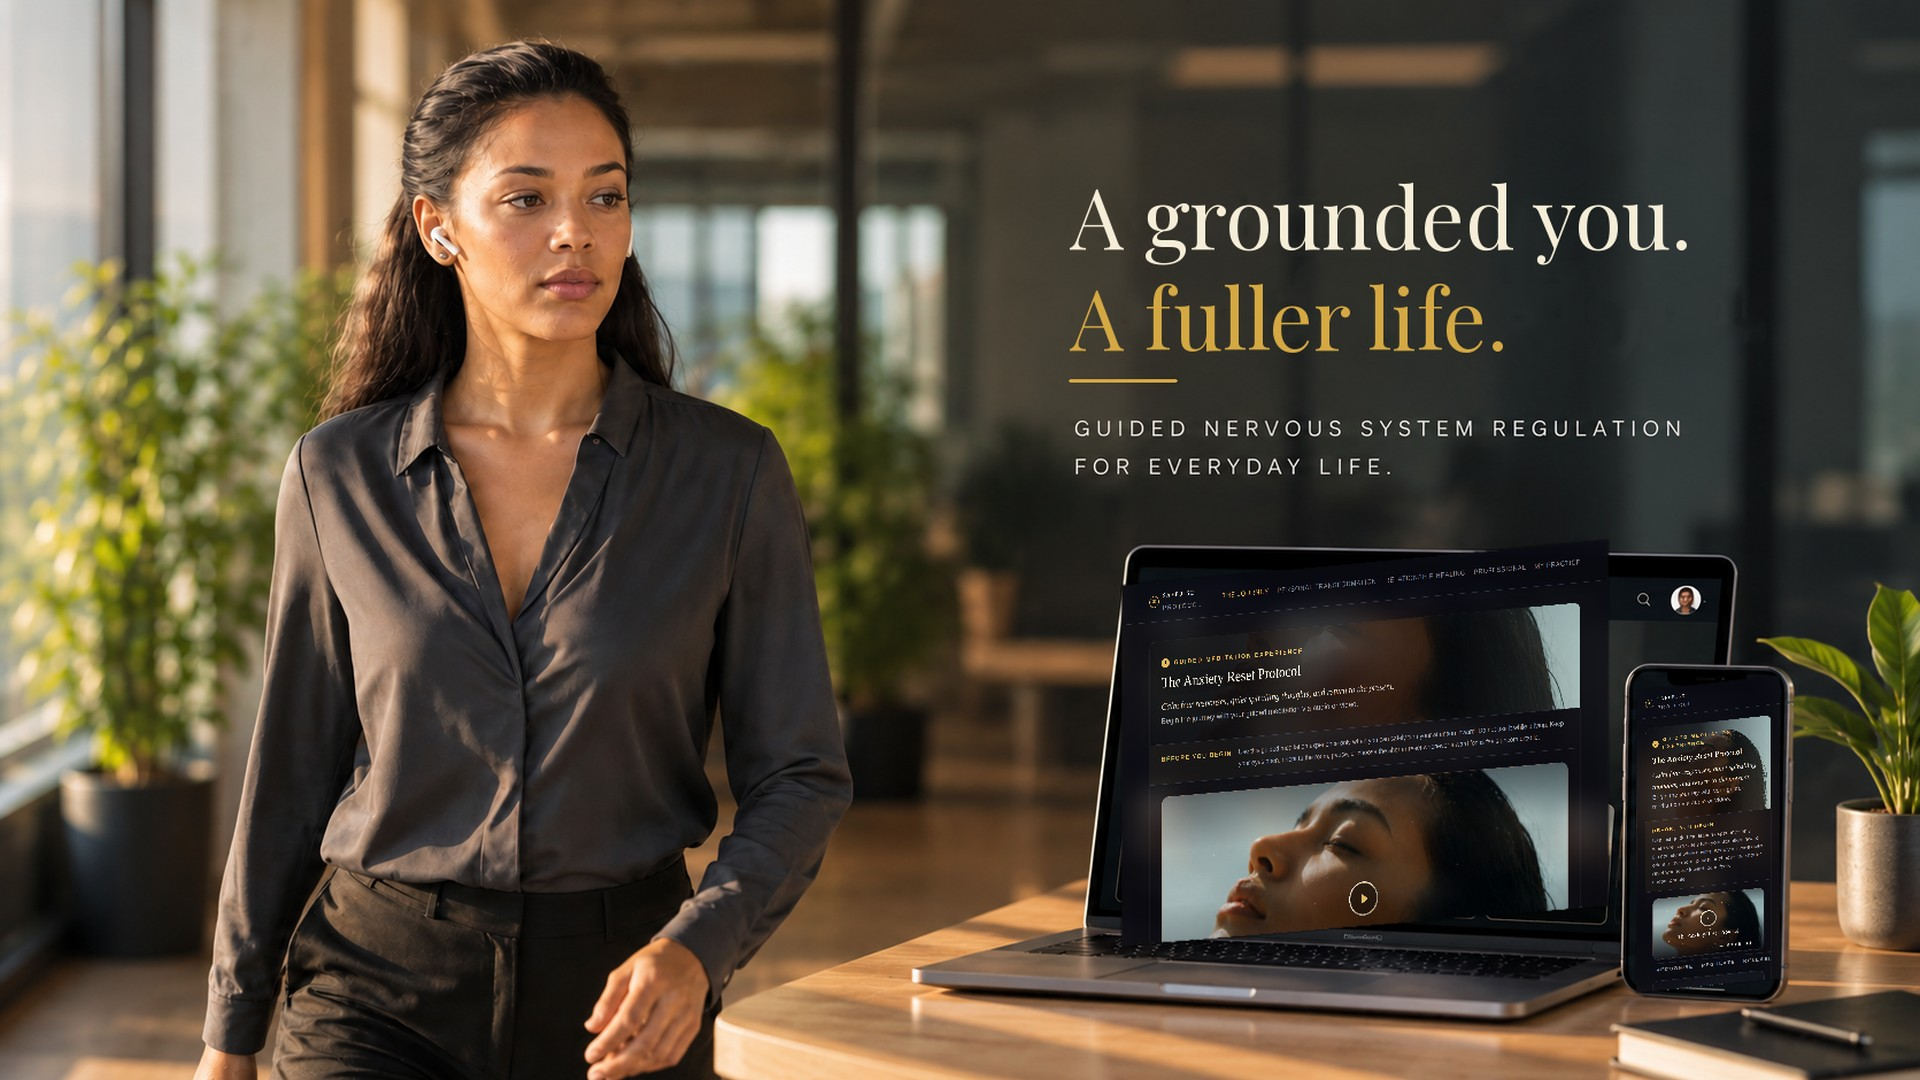
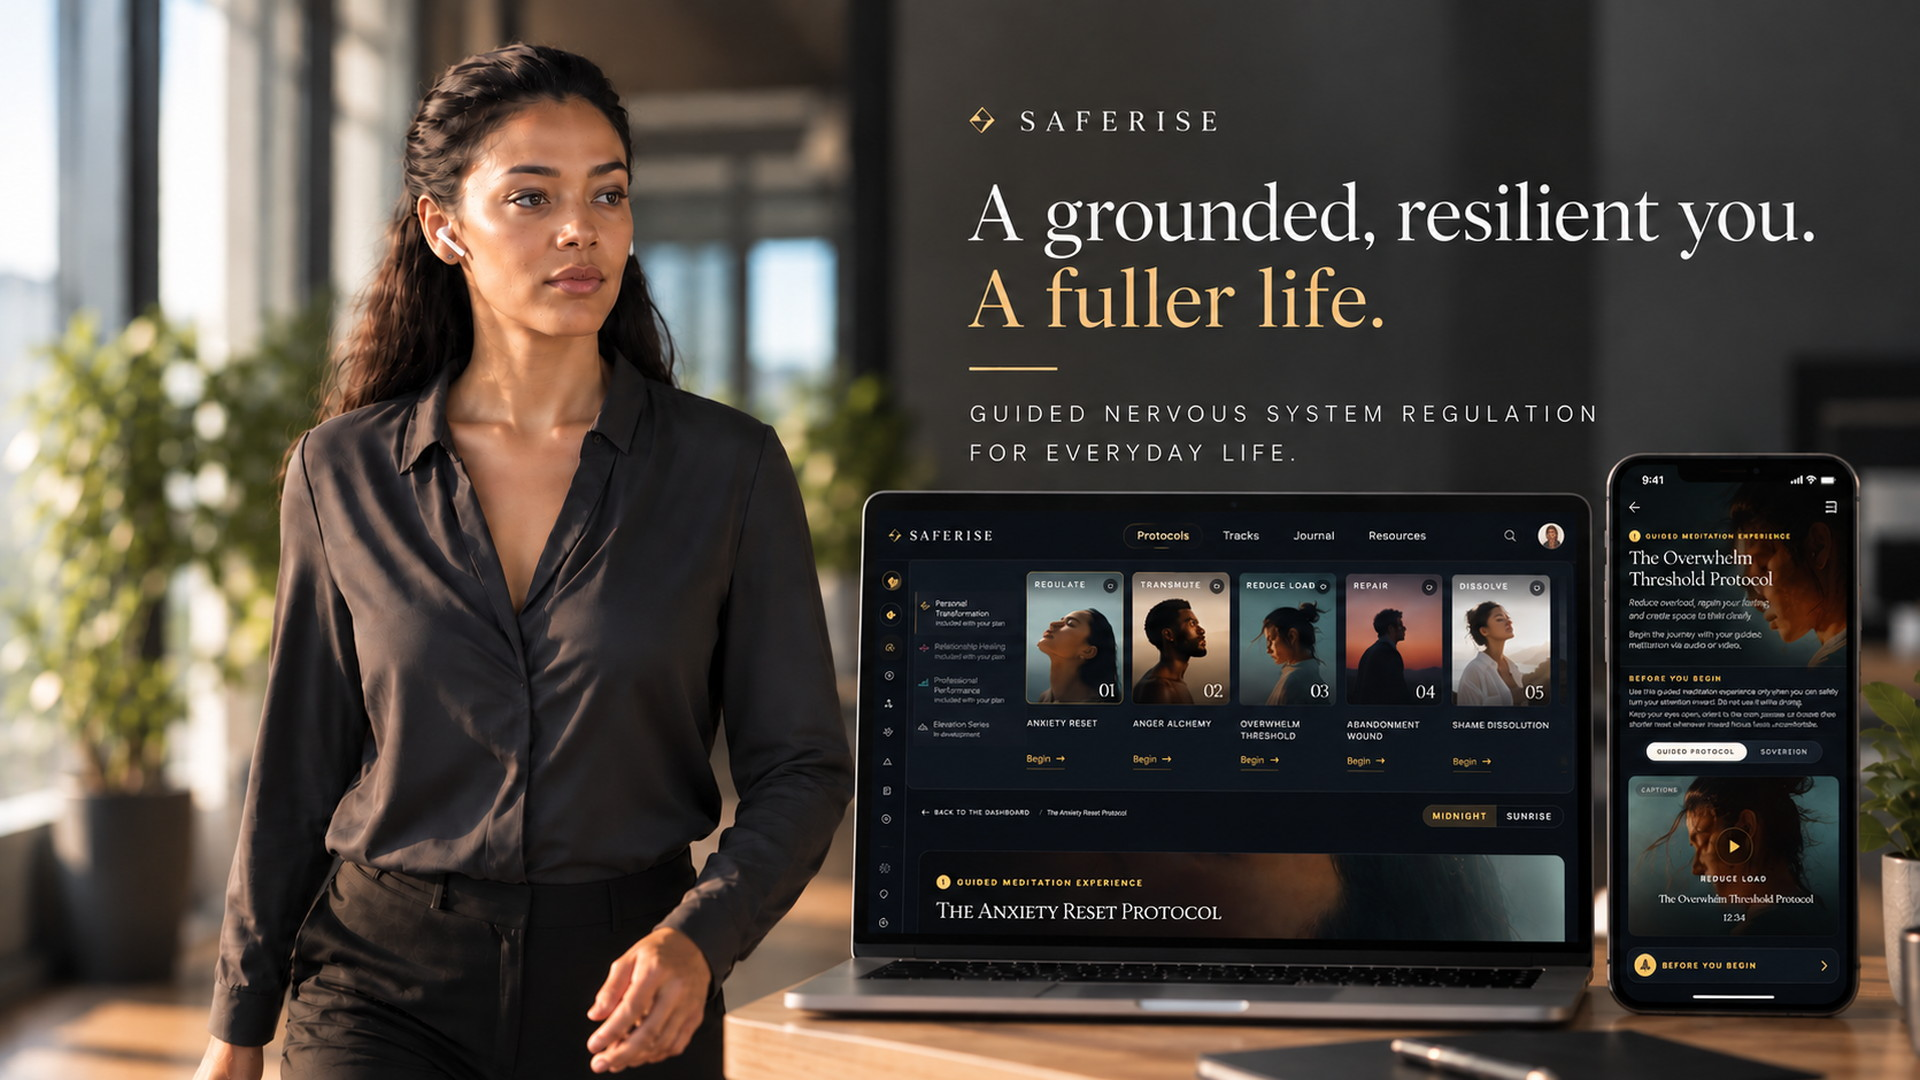
SR-521 · the founder's corrected posters, and VIDEO_BASE filled with the live R2 origin
assets/video/ · both posters replaced with the founder's corrected key art,
normalised to the existing spec: centre-cropped to exact 16:9 (the supplied
frames were 1671x941 and 1670x942) and resampled to 1920x1080, progressive
JPEG, 4:2:2, 328 KB and 333 KB against the 316 KB and 292 KB they replace.

content/video.js · VIDEO_BASE now points at the bucket's public origin
instead of the <MEDIA_BASE> placeholder, which is what js/saferise-film.js
tested for before it would attach a source. The player's three gates are
therefore all open.

Verified against R2, not assumed: all four objects return 200 with
content-type video/mp4, and their durations and frame sizes are the
delivered cuts — film04 58.212s at 1920x1080 and 58.208s at 1280x720,
organisations 102.292s at both. The uploaded encodes are not byte-identical
to the masters rendered in this session (the 1080p files are larger and the
720p files smaller), so they were re-encoded; the cuts themselves match.

NOT DEPLOYED. This is a local commit; the films will not play on the live
site until it is pushed and Netlify rebuilds.

Claude-Session: https://claude.ai/code/session_016sUjcZ8eUvznY1Gppq6HaB

diff --git a/content/video.js b/content/video.js
@@ -33,7 +33,7 @@
 
 /* Fill once R2 public access is on — see the header. No trailing path beyond
    /video/; the filenames below are appended to it. */
-var VIDEO_BASE = '<MEDIA_BASE>/video/';
+var VIDEO_BASE = 'https://pub-e32a7ff66acf4a05aeb1655ca41ae1ab.r2.dev/video/';
 
 /* Poster and caption paths are root-relative, for the reason SR-468 made
    MEDITATION_BASE root-relative: on a nested route a relative path resolves
